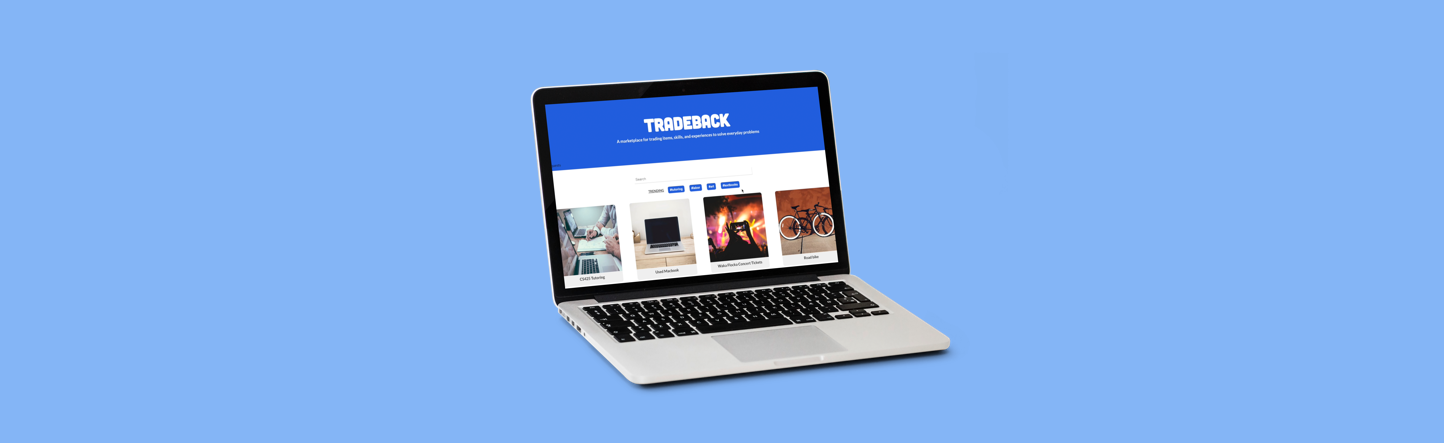
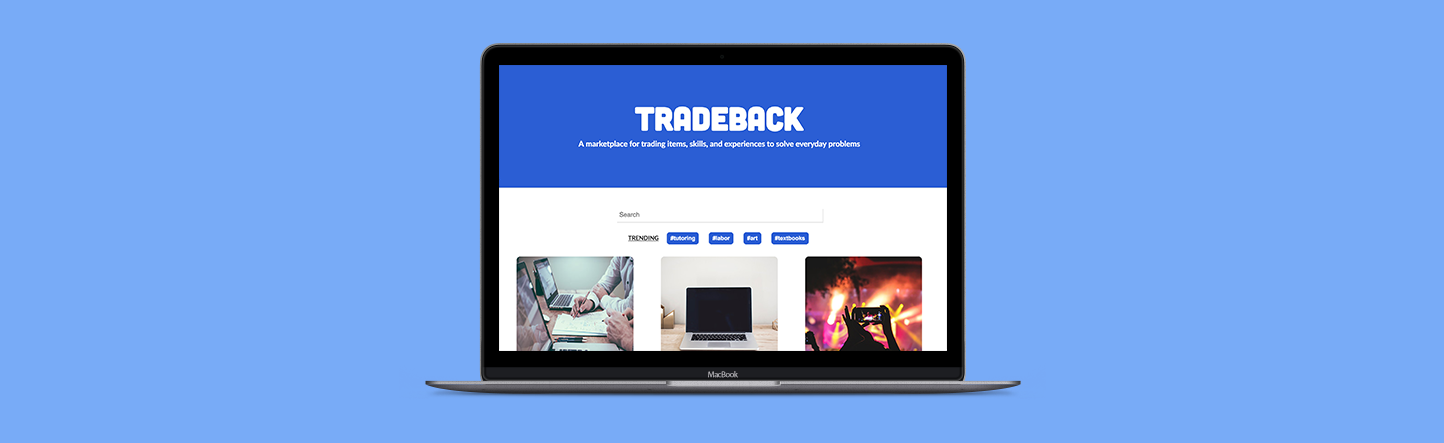
added tradeback gifs

Changed region(s): [[0.2805, 0.088, 0.7168, 0.9097]]

diff --git a/content/tradeback.html b/content/tradeback.html
@@ -36,7 +36,7 @@
         <div class="content">
             <div class="details">
 
-                <h3><span style="color:#1C4CBD;">Tradeback</span> <span class="span">Fall 2017</span></h3>
+                <h3><span style="color:#1C4CBD;">Tradeback</span> <span class="span">November - December 2017</span></h3>
                 <h4>The Art of Web Programming, Computer Science Department, UIUC</h4>
                 <br/>
                 <p><b>tools:</b> React.js, SCSS, Node.js, Express, MongoDB, Webpack, Babel, Heroku, Sketch</p>
@@ -78,14 +78,18 @@
                 <p>We used React to create a responsive frontend for our platform, and Node and Express on the backend. The data for our users and posts was stored in a MongoDB database. We implemented trading functionality, user authentication, messaging, and smart searching/filtering.</p>
                 <br/>
                 <div>
-                    <img class="feature" src="../assets/tradeback/gif.gif" />                    <figcaption class="caption">Demo of homepage</figcaption>
+                    <img class="feature" src="../assets/tradeback/gif.gif" />                    <figcaption class="caption">Homepage (demo)</figcaption>
+                </div>
+                <br/>
+                                <div>
+                    <img class="feature" src="../assets/tradeback/tradegif.gif" />                    <figcaption class="caption">Making a trade (demo)</figcaption>
                 </div>
                 <br/>
                 <p>See it in action on <b><a href="https://github.com/divyapolson/tradeback" target="_blank">Github</a></b>!</p>
                 <br/>
                 <p class="topic">reflection</p>
                 <br/>
-                <p>My contributions were front-end development and lead UX design. Aside from implementing the front-end in React, I also got the opportunity to interact with data in our MongoDB database. If we had more time, we would have developed an in-application chat so users could discuss specifics of their trade or negotiate further (instead of linking to Facebook Messenger). We also would implement a rating system so that users can review other users’ services and rate their transaction. With a few more iterations, it would be useful to do some further usability testing and identify areas of improvement. Overall, I learned a lot about web development and community markets, and I could see Tradeback being successful among college-age adults.</p>
+                <p>My contributions were front-end development and lead UX design. Aside from implementing the front-end in React, I also had the opportunity to interact with data in our MongoDB database. If we had more time, we would have developed an in-application chat so users could discuss specifics of their trade or negotiate further (instead of linking to Facebook Messenger). We also would implement a rating system so that users can review other users’ services and rate their transaction. With a few more iterations, it would be useful to do some further usability testing and identify areas of improvement. Overall, I learned a lot about web development and community markets, and I could see Tradeback being successful among college-age adults.</p>
             </div>
         </div>
     </div>
